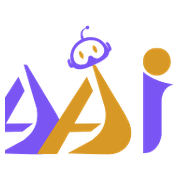
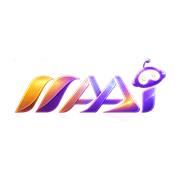
Initial commit

diff --git a/static/index.html b/static/index.html
@@ -4,8 +4,8 @@
 <meta charset="UTF-8">
 <meta name="viewport" content="width=device-width, initial-scale=1.0">
 <title>MAAI — Content Operations Platform</title>
-<link rel="icon" type="image/png" sizes="64x64" href="/static/favicon.png">
-<link rel="apple-touch-icon" sizes="180x180" href="/static/apple-touch-icon.png">
+<link rel="icon" type="image/png" sizes="64x64" href="/static/favicon.png?v=kriti-logo">
+<link rel="apple-touch-icon" sizes="180x180" href="/static/apple-touch-icon.png?v=kriti-logo">
 <style>
   :root {
     --bg: #0b0c1c;